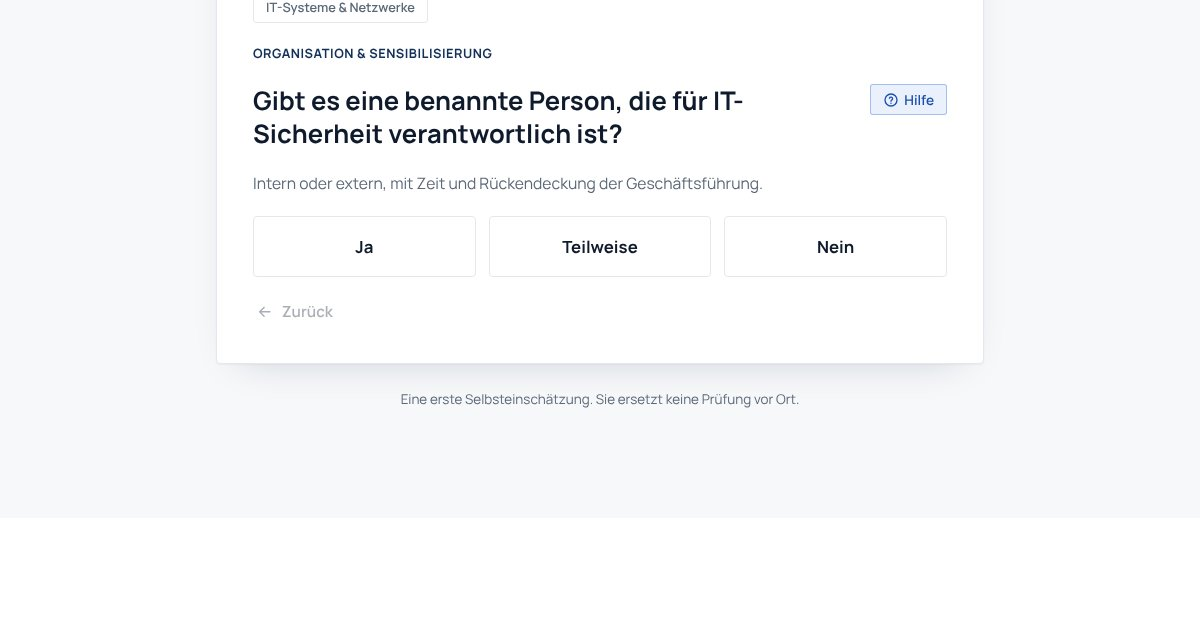
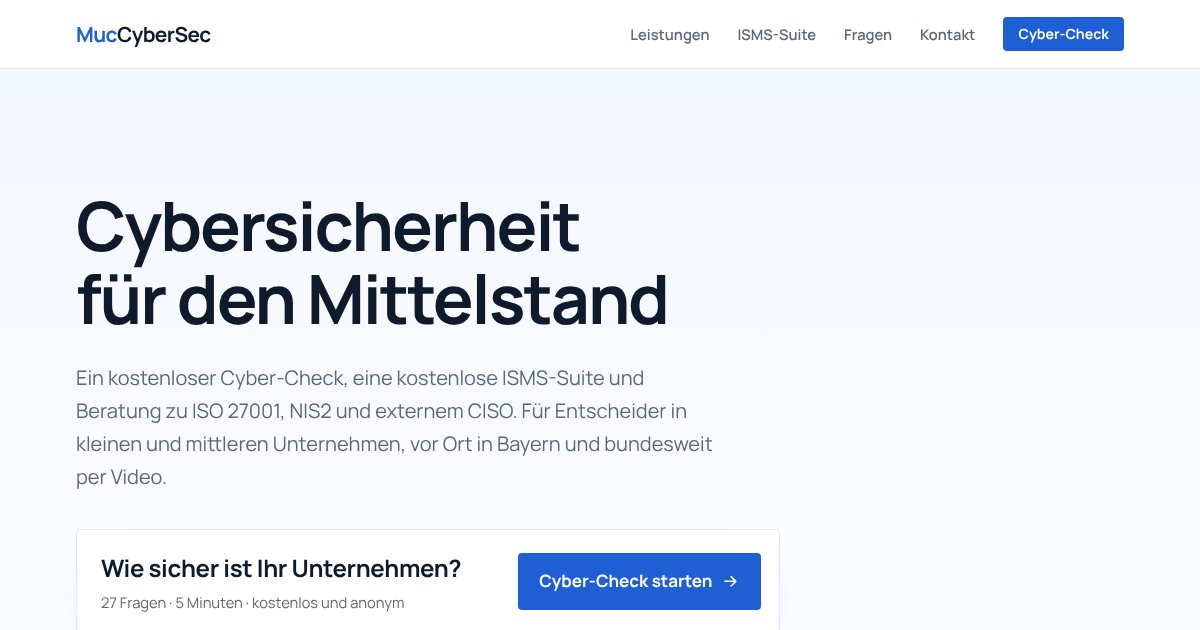
Set hero headline in bold
Claude-Session: https://claude.ai/code/session_01H7iuLRaVLhSwwYKUt7K3jU

diff --git a/assets/css/styles.css b/assets/css/styles.css
@@ -92,7 +92,7 @@ img { max-width: 100%; height: auto; }
 /* --- Hero: Aussage als Überschrift, die Frage führt in den Check -------- */
 .hero { background: linear-gradient(180deg, var(--hero-tint) 0%, var(--paper) 100%); }
 .hero .wrap { display: grid; gap: 1.6rem; justify-items: start; padding-block: clamp(4rem, 10vw, 8rem) clamp(3.5rem, 8vw, 6rem); }
-.hero h1 { font-size: clamp(2.3rem, 1.4rem + 3.8vw, 4.3rem); font-weight: 300; max-width: 24ch; line-height: 1.08; letter-spacing: -0.03em; overflow-wrap: normal; }
+.hero h1 { font-size: clamp(2.3rem, 1.4rem + 3.8vw, 4.3rem); font-weight: 700; max-width: 24ch; line-height: 1.08; letter-spacing: -0.03em; overflow-wrap: normal; }
 .hero-sub { font-size: clamp(1.08rem, 1rem + .4vw, 1.25rem); color: var(--muted); max-width: 40rem; }
 .hero-question { display: flex; align-items: center; justify-content: space-between; gap: 1rem 2rem; flex-wrap: wrap; width: 100%; max-width: 44rem; margin-top: .6rem; padding: 1.15rem 1.15rem 1.15rem 1.5rem; border-radius: 4px; background: var(--paper); border: 1px solid var(--line); box-shadow: 0 1px 2px rgba(15,27,45,.04), 0 18px 40px -26px rgba(31,95,214,.45); text-decoration: none; color: var(--ink); transition: border-color .15s, box-shadow .15s, transform .15s; }
 .hero-question:hover { border-color: var(--accent); transform: translateY(-1px); }
